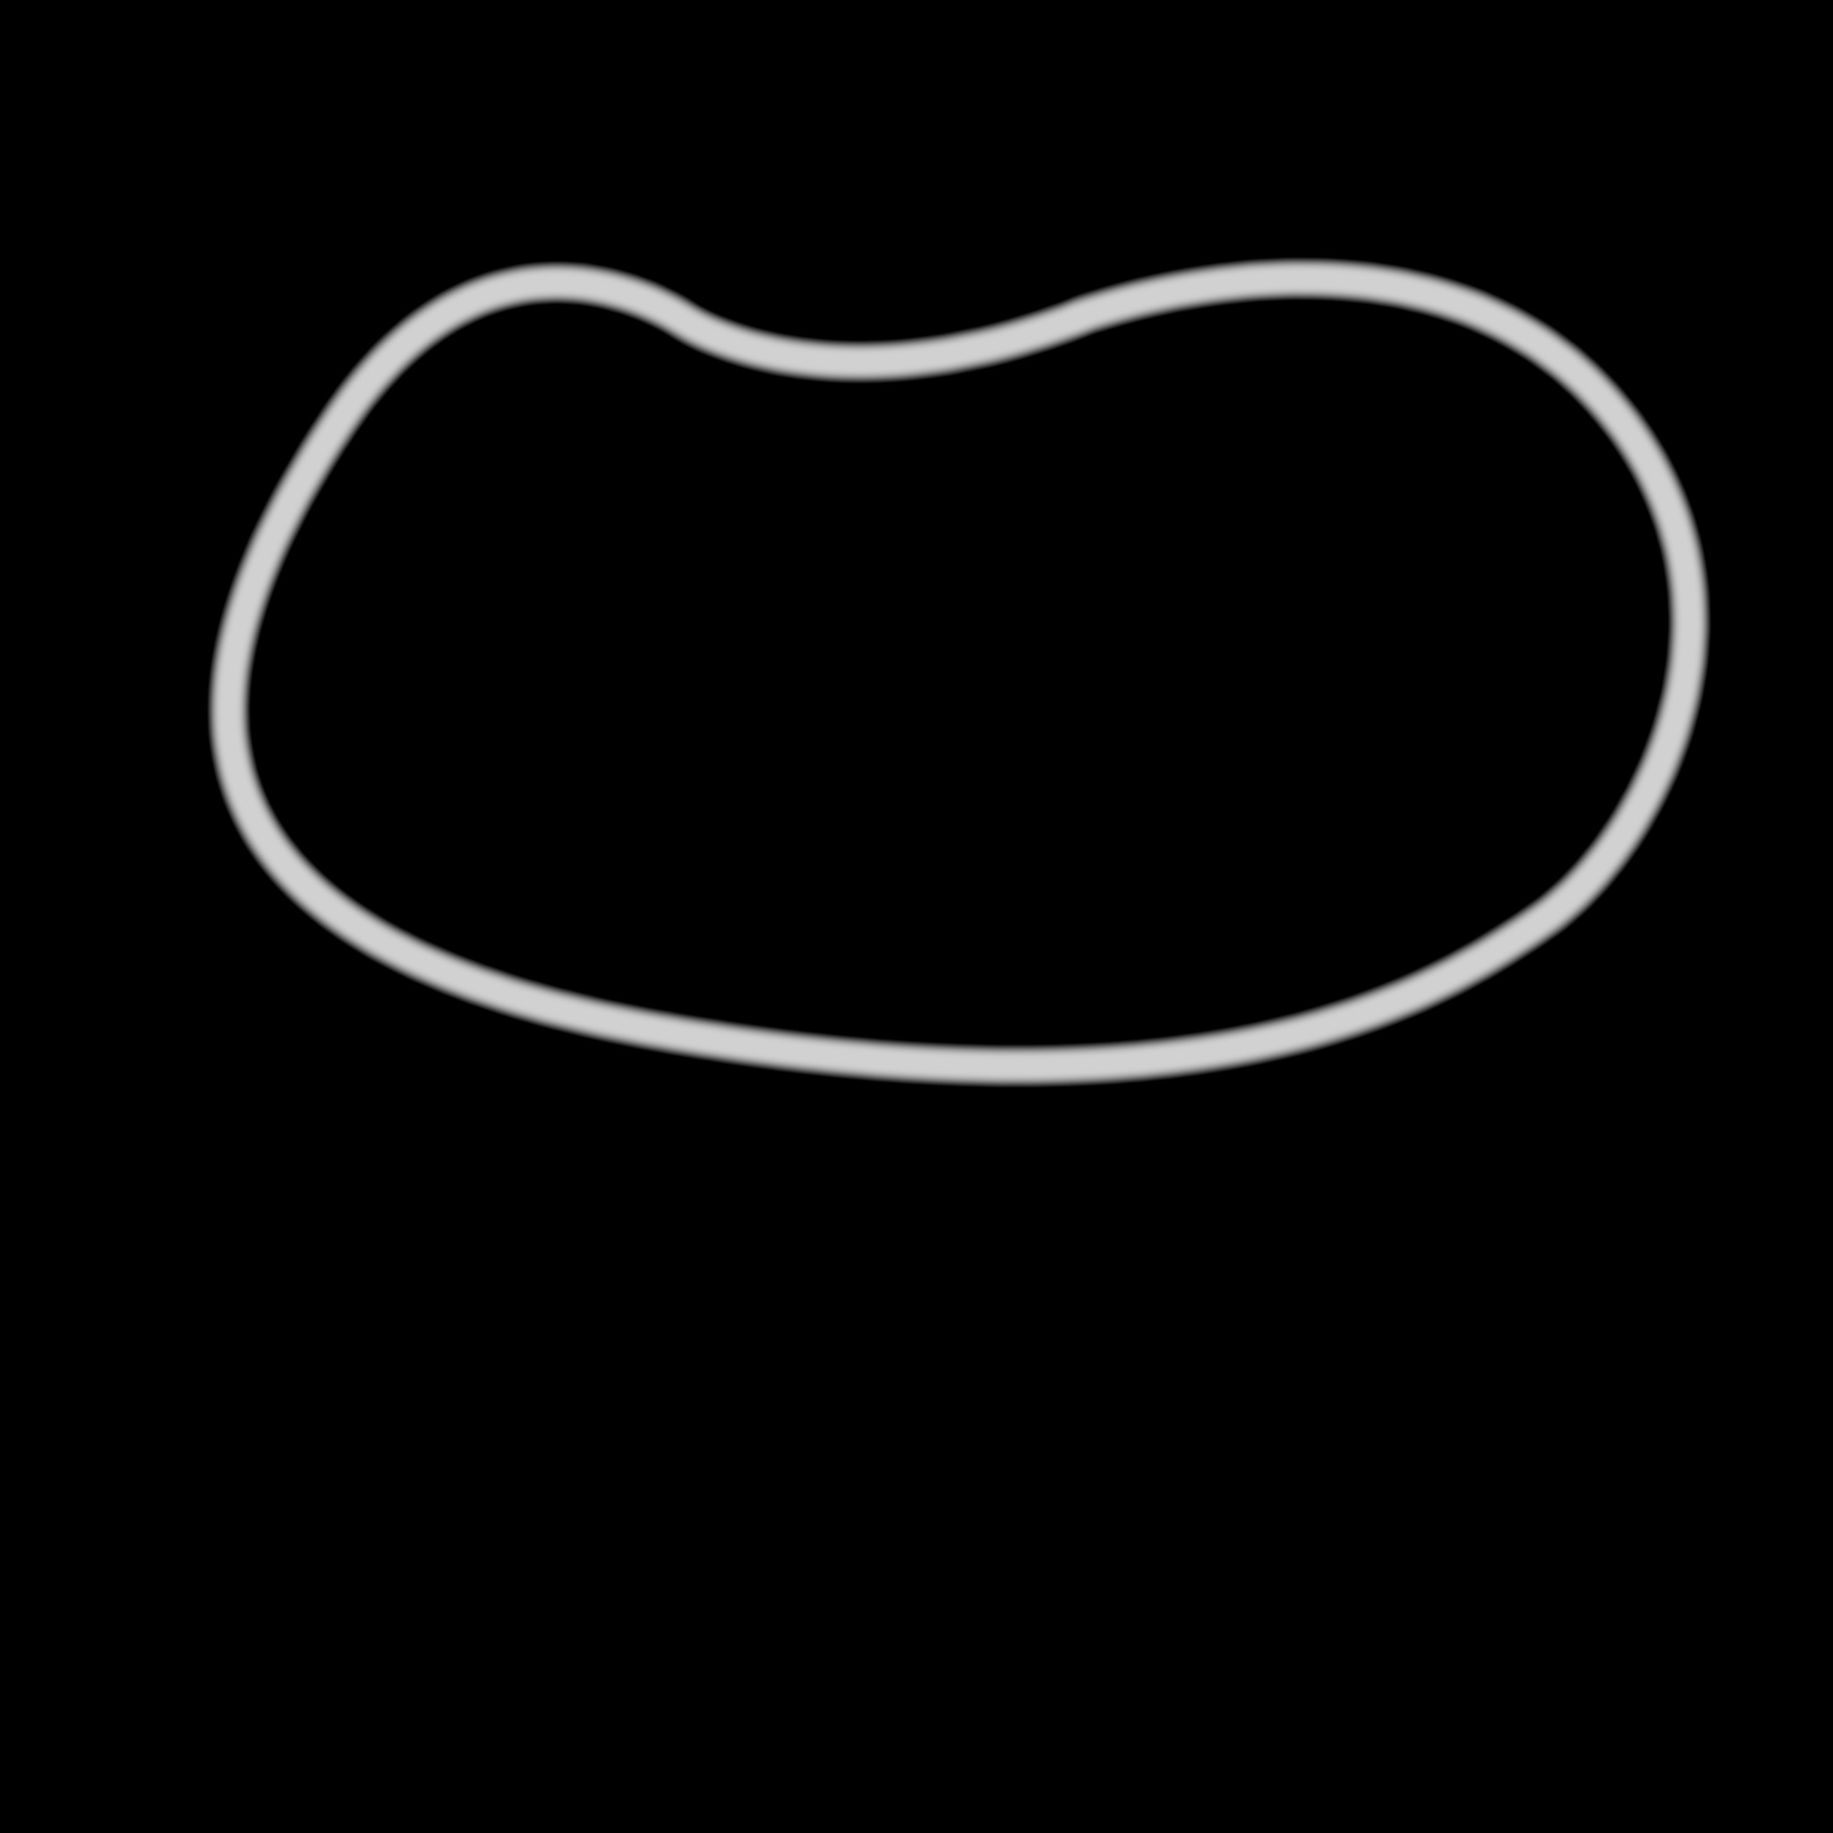
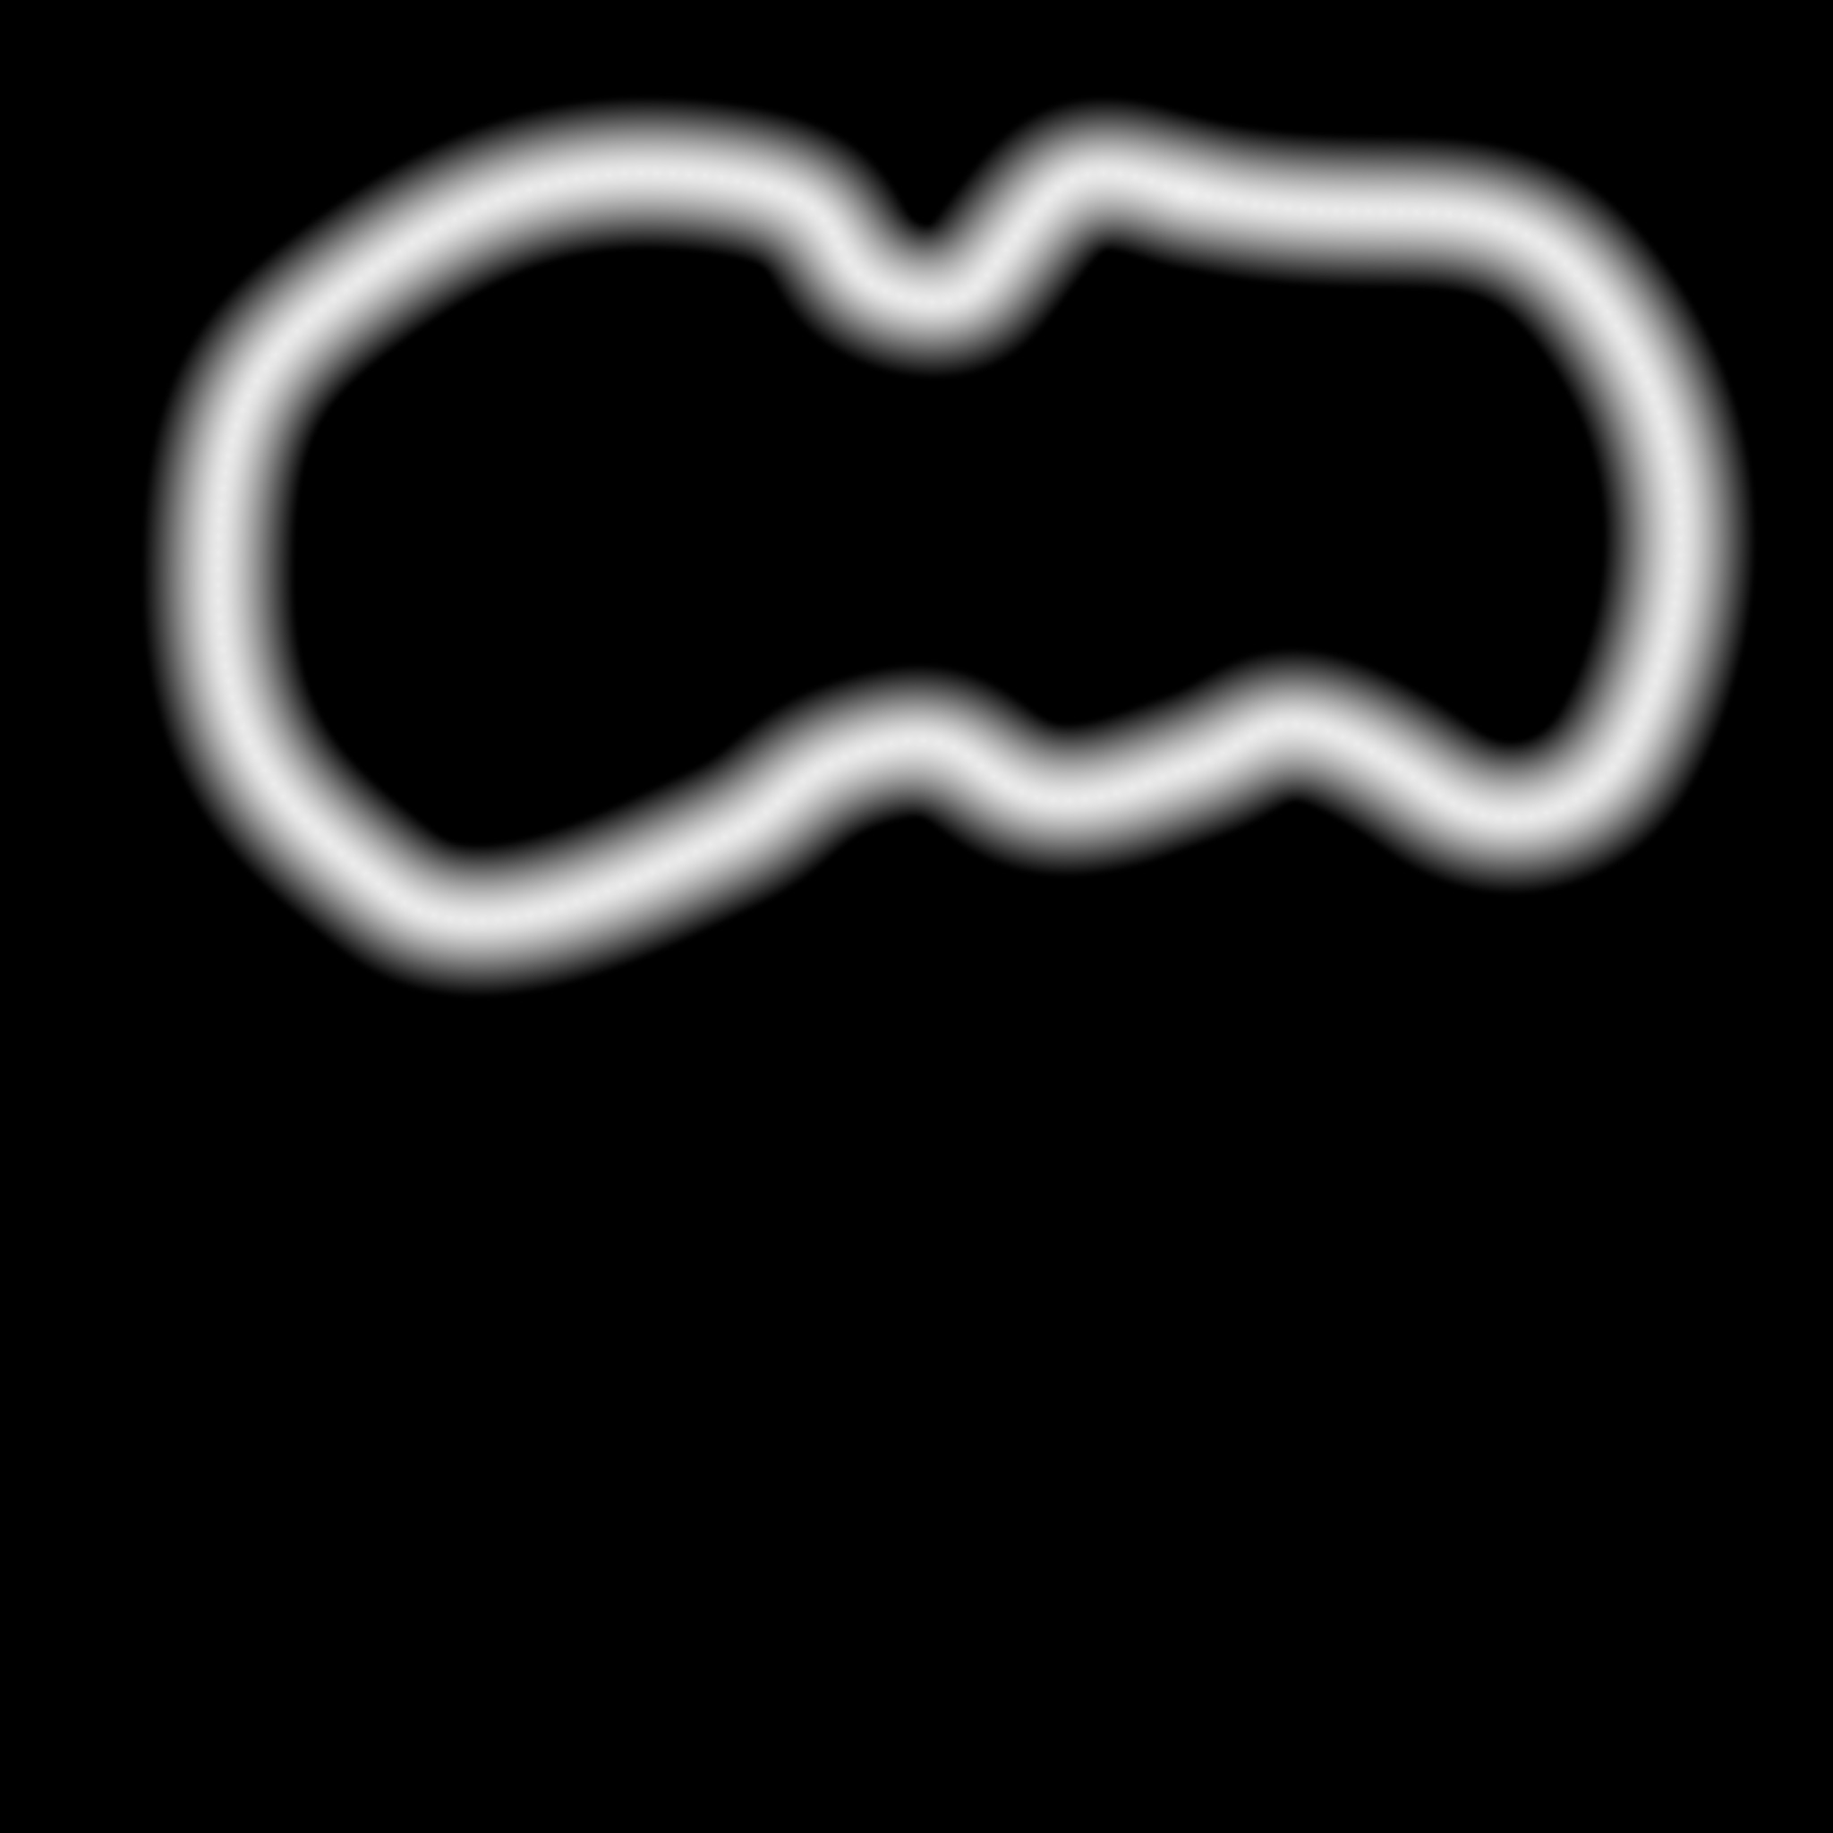
Texture to first tunnel and rails
* First tunnel now has transparency with a metail chainlink
* Rails is now using a StandardMaterial with metalness properties and an environment map reflection using StandardMaterial

Changed region(s): [[0.0625, 0.0312, 0.9688, 0.5938]]

diff --git a/Ejercicios/E7_MontaniaRusa/src/shaders/shadersGround.js b/Ejercicios/E7_MontaniaRusa/src/shaders/shadersGround.js
@@ -34,137 +34,41 @@ export const fragmentShaderVars = `
     varying vec2 vUv;
 
     uniform float scale1;
+    uniform float tailMaskScale;
 
-
-    uniform float mask1low;
-    uniform float mask1high;
-
-    uniform float mask2low;
-    uniform float mask2high;
+    uniform float tailPosX;
+    uniform float tailPosY;
 
     uniform sampler2D tierraSampler;
     uniform sampler2D rocaSampler;
     uniform sampler2D pastoSampler;
     uniform sampler2D senderoSampler;
 
-    // Perlin Noise						
-                
-    vec3 mod289(vec3 x){
-        return x - floor(x * (1.0 / 289.0)) * 289.0;
-    }
-
-    vec4 mod289(vec4 x){
-        return x - floor(x * (1.0 / 289.0)) * 289.0;
-    }
-
-    vec4 permute(vec4 x){
-        return mod289(((x*34.0)+1.0)*x);
-    }
-
-    vec4 taylorInvSqrt(vec4 r){
-        return 1.79284291400159 - 0.85373472095314 * r;
-    }
-
-    vec3 fade(vec3 t) {
-        return t*t*t*(t*(t*6.0-15.0)+10.0);
-    }
-
-    // Classic Perlin noise
-    float cnoise(vec3 P){
-        vec3 Pi0 = floor(P); // Integer part for indexing
-        vec3 Pi1 = Pi0 + vec3(1.0); // Integer part + 1
-        Pi0 = mod289(Pi0);
-        Pi1 = mod289(Pi1);
-        vec3 Pf0 = fract(P); // Fractional part for interpolation
-        vec3 Pf1 = Pf0 - vec3(1.0); // Fractional part - 1.0
-        vec4 ix = vec4(Pi0.x, Pi1.x, Pi0.x, Pi1.x);
-        vec4 iy = vec4(Pi0.yy, Pi1.yy);
-        vec4 iz0 = Pi0.zzzz;
-        vec4 iz1 = Pi1.zzzz;
-
-        vec4 ixy = permute(permute(ix) + iy);
-        vec4 ixy0 = permute(ixy + iz0);
-        vec4 ixy1 = permute(ixy + iz1);
-
-        vec4 gx0 = ixy0 * (1.0 / 7.0);
-        vec4 gy0 = fract(floor(gx0) * (1.0 / 7.0)) - 0.5;
-        gx0 = fract(gx0);
-        vec4 gz0 = vec4(0.5) - abs(gx0) - abs(gy0);
-        vec4 sz0 = step(gz0, vec4(0.0));
-        gx0 -= sz0 * (step(0.0, gx0) - 0.5);
-        gy0 -= sz0 * (step(0.0, gy0) - 0.5);
-
-        vec4 gx1 = ixy1 * (1.0 / 7.0);
-        vec4 gy1 = fract(floor(gx1) * (1.0 / 7.0)) - 0.5;
-        gx1 = fract(gx1);
-        vec4 gz1 = vec4(0.5) - abs(gx1) - abs(gy1);
-        vec4 sz1 = step(gz1, vec4(0.0));
-        gx1 -= sz1 * (step(0.0, gx1) - 0.5);
-        gy1 -= sz1 * (step(0.0, gy1) - 0.5);
-
-        vec3 g000 = vec3(gx0.x,gy0.x,gz0.x);
-        vec3 g100 = vec3(gx0.y,gy0.y,gz0.y);
-        vec3 g010 = vec3(gx0.z,gy0.z,gz0.z);
-        vec3 g110 = vec3(gx0.w,gy0.w,gz0.w);
-        vec3 g001 = vec3(gx1.x,gy1.x,gz1.x);
-        vec3 g101 = vec3(gx1.y,gy1.y,gz1.y);
-        vec3 g011 = vec3(gx1.z,gy1.z,gz1.z);
-        vec3 g111 = vec3(gx1.w,gy1.w,gz1.w);
-
-        vec4 norm0 = taylorInvSqrt(vec4(dot(g000, g000), dot(g010, g010), dot(g100, g100), dot(g110, g110)));
-        g000 *= norm0.x;
-        g010 *= norm0.y;
-        g100 *= norm0.z;
-        g110 *= norm0.w;
-        vec4 norm1 = taylorInvSqrt(vec4(dot(g001, g001), dot(g011, g011), dot(g101, g101), dot(g111, g111)));
-        g001 *= norm1.x;
-        g011 *= norm1.y;
-        g101 *= norm1.z;
-        g111 *= norm1.w;
-
-        float n000 = dot(g000, Pf0);
-        float n100 = dot(g100, vec3(Pf1.x, Pf0.yz));
-        float n010 = dot(g010, vec3(Pf0.x, Pf1.y, Pf0.z));
-        float n110 = dot(g110, vec3(Pf1.xy, Pf0.z));
-        float n001 = dot(g001, vec3(Pf0.xy, Pf1.z));
-        float n101 = dot(g101, vec3(Pf1.x, Pf0.y, Pf1.z));
-        float n011 = dot(g011, vec3(Pf0.x, Pf1.yz));
-        float n111 = dot(g111, Pf1);
-
-        vec3 fade_xyz = fade(Pf0);
-        vec4 n_z = mix(vec4(n000, n100, n010, n110), vec4(n001, n101, n011, n111), fade_xyz.z);
-        vec2 n_yz = mix(n_z.xy, n_z.zw, fade_xyz.y);
-        float n_xyz = mix(n_yz.x, n_yz.y, fade_xyz.x); 
-        return 2.2 * n_xyz;
-    }
     `;
 
 export const fragmentShader = `
         vec2 uv2=vUv*scale1;
-        vec2 uv3=(vUv*930.0) - 450.0;
-        
-        uv3.y = uv3.y - 1.0;
+        vec2 uv3=(vUv*tailMaskScale);
+        uv3.x = uv3.x - tailPosX;
+        uv3.y = uv3.y - tailPosY;
 
         // muestreo el pasto a diferentes escalas
-
         vec3 pasto1=texture2D(pastoSampler,uv2*1.0).xyz;
         vec3 pasto2=texture2D(pastoSampler,uv2*3.13).xyz;
         vec3 pasto3=texture2D(pastoSampler,uv2*2.37).xyz;
         
         // combino los 3 muestreos del pasto con la funcion de mezcla
-
         //vec3 colorPasto=pasto1;
         vec3 colorPasto=mix(mix(pasto1,pasto2,0.5),pasto3,0.3);
 
         // muestreo la tierra a diferentes escalas
-
         vec3 tierra1=texture2D(tierraSampler,uv2*3.77).xyz;
         vec3 tierra2=texture2D(tierraSampler,uv2*1.58).xyz;        
         vec3 colorTierra=mix(tierra1,tierra2,0.5);
 
         // muestreo la roca a diferentes escalas
 
-        vec3 roca1=texture2D(rocaSampler,uv2).xyz;
+        vec3 roca1=texture2D(rocaSampler,uv2*2.0).xyz;
         vec3 roca2=texture2D(rocaSampler,uv2*2.38).xyz;
         vec3 colorRoca=mix(roca1,roca2,0.5);        
         
@@ -173,41 +77,21 @@ export const fragmentShader = `
         
         // Determinar pesos basados en el valor de la máscara
         float weightA = smoothstep(0.0, 0.4, 1.0 - senderoMask); // Más peso para negros
-        float weightB = smoothstep(0.3, 0.7, senderoMask);       // Peso para valores grises
-        float weightC = smoothstep(0.6, 1.0, senderoMask);       // Más peso para blancos
+        float weightB = smoothstep(0.3, 0.8, senderoMask) - smoothstep(0.8, 0.9, senderoMask);  // Peso para valores grises
+        float weightC = smoothstep(0.7, 1.0, senderoMask);       // Más peso para blancos
         
         // Normalizar los pesos para evitar valores mayores a 1
         float totalWeight = weightA + weightB + weightC;
         weightA /= totalWeight;
         weightB /= totalWeight;
         weightC /= totalWeight;
-        
-        // genero una mascara 1 a partir de ruido perlin
-
-        float noise1=cnoise(uv2.xyx*8.23+23.11);
-        float noise2=cnoise(uv2.xyx*11.77+9.45);
-        float noise3=cnoise(uv2.xyx*14.8+21.2);
-        
-        float mask1=mix(mix(noise1,noise2,0.5),noise3,0.3);		
-        mask1=smoothstep(mask1low,mask1high,mask1);
-        
-        // genero la mascara 2 a partir del ruido perlin
-        float noise4=cnoise(uv2.xyx*8.23*scale1);
-        float noise5=cnoise(uv2.xyx*11.77*scale1);
-        float noise6=cnoise(uv2.xyx*14.8*scale1);
-        
-        float mask2=mix(mix(noise4,noise5,0.5),noise6,0.3);			   
-        mask2=smoothstep(mask2low,mask2high,mask2);
-
 
         // combino tierra y roca usando la mascara 1
-        vec3 colorTierraRoca=mix(colorTierra,colorRoca,mask1);
+        //vec3 colorTierraRoca=mix(colorTierra,colorRoca,mask1);
         
         // combino colorPasto (tierra y rocas) con color2 a partir de la mascara2
-        vec3 color=mix(colorPasto,colorTierraRoca,mask2);			   
-        
-        diffuseColor = vec4(color,1.0);
-        diffuseColor = vec4(colorPasto * weightA + colorTierra * weightB + colorRoca * weightC, 1.0);
-        //gl_FragColor = vec4(colorPasto,1.0);		
+        //vec3 color=mix(colorPasto,colorTierraRoca,mask2);   
+
+        diffuseColor = vec4(colorPasto * weightA + colorTierra * weightB + roca1 * weightC , 1.0);
 
     `;

diff --git a/Ejercicios/E7_MontaniaRusa/src/sceneManager.js b/Ejercicios/E7_MontaniaRusa/src/sceneManager.js
@@ -1,6 +1,7 @@
 import * as THREE from 'three';
 import { ParametricGeometry } from 'three/addons/geometries/ParametricGeometry.js';
 import { ParametricGeometries } from "three/examples/jsm/geometries/ParametricGeometries.js";
+import { PMREMGenerator } from "three/src/extras/PMREMGenerator.js";
 
 import * as dat from 'dat.gui';
 import { CamerasId } from  './constants.js';
@@ -17,7 +18,16 @@ const textures = {
 	tierra: { url: 'tierra.jpg', object: null },
 	roca: { url: 'ripio.jpg', object: null },
 	pasto: { url: 'pasto.jpg', object: null },
-	sendero: { url: 'trail.jpg', object: null }
+	sendero: { url: 'trail.jpg', object: null },
+	rust: { url: 'column_base.jpg', object: null },
+	rust_norm: { url: 'column_normals.jpg', object: null },
+	rust_ao: { url: 'column_ao.jpg', object: null },
+	twist_tunnel: { url: 'tunnelA_base.png', object: null },
+	twist_tunnel_alpha: { url: 'tunnelA_alpha.png', object: null },
+	twist_tunnel_norm: { url: 'tunnelA_normals.png', object: null },
+	rail:  { url: 'rail_base.jpg', object: null },
+	rail_ao:  { url: 'rail_ao.jpg', object: null },
+	rail_norm:  { url: 'rail_normal.jpg', object: null },
 };
 
 export class SceneManager {
@@ -96,10 +106,9 @@ export class SceneManager {
 				shader.uniforms.pastoSampler = { type: 't', value: textures.pasto.object };
 				shader.uniforms.senderoSampler = { type: 't', value: textures.sendero.object };
 				shader.uniforms.scale1 = { type: 'f', value: 1000.0 };
-				shader.uniforms.mask1low = { type: 'f', value: 0.78 };
-				shader.uniforms.mask1high = { type: 'f', value: 0.1 };
-				shader.uniforms.mask2low = { type: 'f', value: 0.8};
-				shader.uniforms.mask2high = { type: 'f', value: 1 };
+				shader.uniforms.tailMaskScale = { type: 'f', value: 930.0 };
+				shader.uniforms.tailPosX = { type: 'f', value: 449.5 };
+				shader.uniforms.tailPosY = { type: 'f', value: 451.0 };
 				
 				shader.fragmentShader = fragmentShaderVars  + shader.fragmentShader;
 				shader.fragmentShader = shader.fragmentShader.replace(
@@ -115,8 +124,41 @@ export class SceneManager {
 		
 			this.ground.receiveShadow = true;
 			this.ground.needsUpdate = true;
+			
+			textures.rust.object.repeat = textures.rust_norm.object.repeat = textures.rust_ao.object.repeat = new THREE.Vector2(1,4);
+			
+			let columns = this.rollerCoaster.getAllColumns();
+			columns.map((column)=>{
+				column.material = new THREE.MeshPhongMaterial( {color: 0xffffff} ); // Si no redefino el material, algunas columnas no cargan su textura
+				column.material.map = textures.rust.object;
+				column.material.shininess= 80.0;
+				column.material.normalMap = textures.rust_norm.object;
+				column.material.aoMap = textures.rust_ao.object;
+			});
+			
+			textures.twist_tunnel_alpha.object.repeat = textures.twist_tunnel.object.repeat = textures.twist_tunnel_norm.object.repeat = new THREE.Vector2(4,4);
+			
+			this.rollerCoaster.twistedTunnel.material.color = 0x000000;
+			this.rollerCoaster.twistedTunnel.material.alphaTest = 0.3;
+			this.rollerCoaster.twistedTunnel.material.transparent = false;
+			this.rollerCoaster.twistedTunnel.material.alphaMap = textures.twist_tunnel_alpha.object;
+			this.rollerCoaster.twistedTunnel.material.map = textures.twist_tunnel.object;
+			this.rollerCoaster.twistedTunnel.material.normalMap = textures.twist_tunnel_norm.object;
+			
+			textures.rail.object.repeat = textures.rail_ao.object.repeat = textures.rail_norm.object.repeat = new THREE.Vector2(8,128);
+			
+			this.rollerCoaster.rcMesh.material = new THREE.MeshStandardMaterial( {color: 0xffffff} ); // 
+			this.rollerCoaster.rcMesh.material.roughness = 0.1;
+			this.rollerCoaster.rcMesh.material.metalness =  0.5;
+			
+			this.rollerCoaster.rcMesh.material.envMap = this.remGenerator.fromScene( this.sceneLights.sky ).texture
+			this.rollerCoaster.rcMesh.material.envMapIntensity = 0.1;
+			this.rollerCoaster.rcMesh.material.map = textures.rail.object;
+			this.rollerCoaster.rcMesh.material.aoMap = textures.rail_ao.object;
+			this.rollerCoaster.rcMesh.material.normalMap = textures.rail_norm.object;
+			// this.rollerCoaster.rcMesh.material.shininess = 80.0;
 
-		}		);
+		});
 	}
 	
 	loadTextures(callback) {

diff --git a/Ejercicios/E7_MontaniaRusa/src/rollerCoaster.js b/Ejercicios/E7_MontaniaRusa/src/rollerCoaster.js
@@ -620,7 +620,7 @@ export class RollerCoaster extends THREE.Object3D {
         
         const geometry = new ParametricGeometry( ParamFunc, 20, POINTS -1);
         geometry.computeVertexNormals();
-        const material = new THREE.MeshPhongMaterial({ color: 0xff00ff, flatShading: false, wireframe: false});
+        const material = new THREE.MeshPhongMaterial({ color: 0xffffff, flatShading: false, wireframe: false});
         const mesh = new THREE.Mesh( geometry, material );
         
         return mesh;
@@ -744,6 +744,7 @@ export class RollerCoaster extends THREE.Object3D {
                     const columnMaterial = new THREE.MeshPhongMaterial({ color: 0xD3D3D3, flatShading: false, wireframe: false});
                     
                     const column = new THREE.Mesh( columnGeometry, columnMaterial );
+                    column.name = "Column";
         
                     column.position.set(columnPos.x, 0, columnPos.z);
             
@@ -758,6 +759,10 @@ export class RollerCoaster extends THREE.Object3D {
         
     }
     
+    getAllColumns()
+    {
+        return this.getObjectsByProperty("name", "Column");
+    }
     buildScaledTunnel()
 	{
         const circleRadius = 0.2;

diff --git a/Ejercicios/E7_MontaniaRusa/src/main.js b/Ejercicios/E7_MontaniaRusa/src/main.js
@@ -2,6 +2,7 @@ import * as THREE from 'three';
 import { OrbitControls } from 'three/examples/jsm/controls/OrbitControls.js';
 import { FirstPersonControls } from 'three/addons/controls/FirstPersonControls.js';
 import { FlyControls } from 'three/addons/controls/FlyControls.js';
+import { PMREMGenerator } from "three/src/extras/PMREMGenerator.js";
 
 import { SceneManager } from './sceneManager.js';
 
@@ -98,6 +99,8 @@ function setupThreeJs() {
 	sceneManager = new SceneManager(scene);
 	sceneManager.addTrainCameras(trainCameraFront, trainCameraBack, trainCameraSide);
 	sceneManager.addFlyingChairCamera(flyingChairCamera);
+	
+	sceneManager.remGenerator = new PMREMGenerator(renderer);
 	
 	// Posiciones para la camara orbital de cada atracción
 	orbitControls = new OrbitControls(orbitCamera, renderer.domElement);
